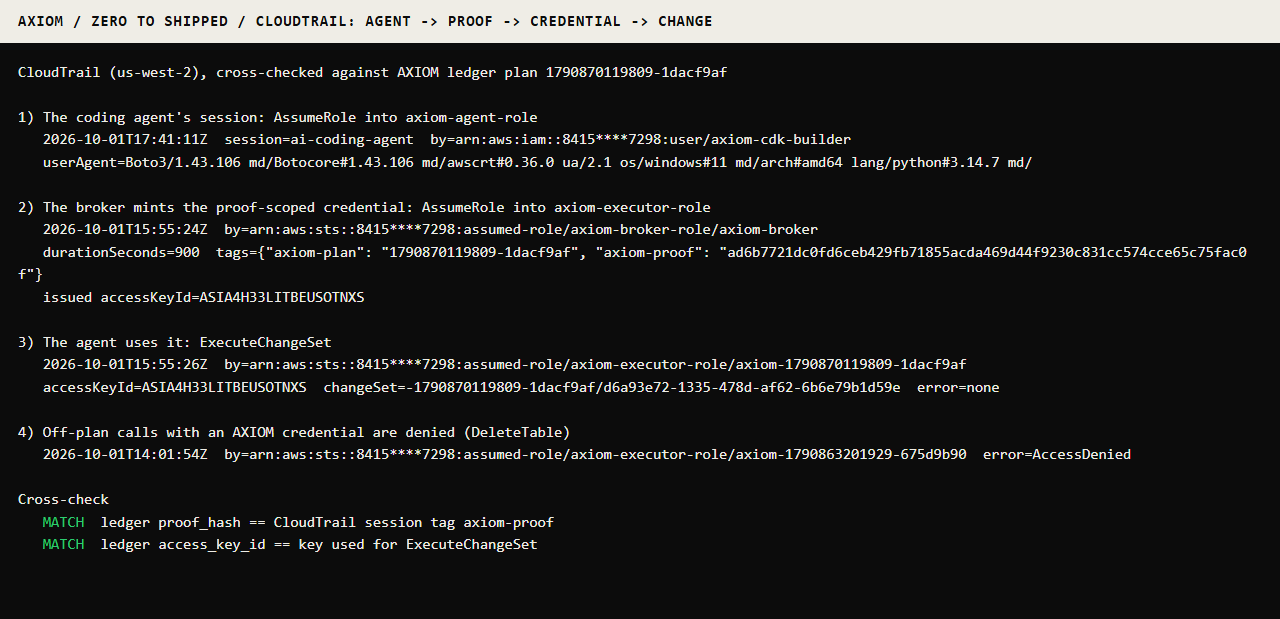
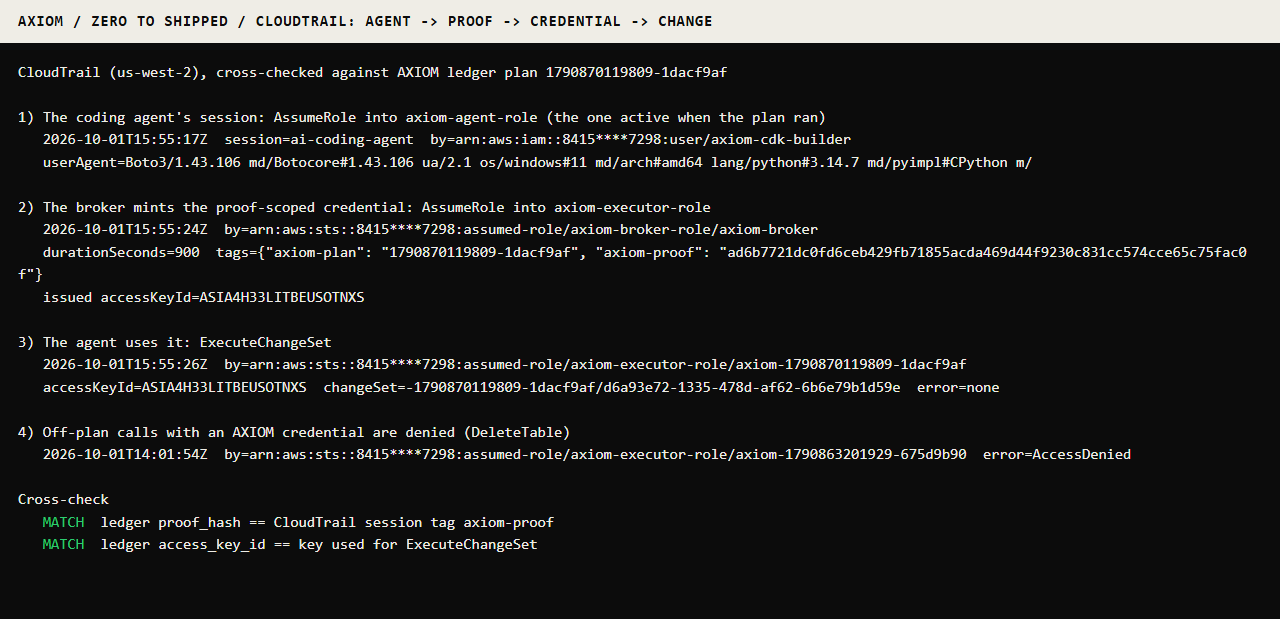
Evidence: show the agent session active when the plan ran
Exhibit 2 picked the agent's most recent AssumeRole, which broke the
chronology once newer sessions existed. It now selects the latest agent
session at or before the plan's creation, so the chain reads in order.

Changed region(s): [[0.3125, 0.2456, 0.8125, 0.2763], [0.4375, 0.1842, 0.6562, 0.2149], [0.125, 0.2149, 0.1562, 0.2456]]

diff --git a/scripts/collect_evidence.py b/scripts/collect_evidence.py
@@ -64,13 +64,16 @@ def exhibit_cloudtrail(record: dict) -> str:
     session_name = f"axiom-{AGENT_PLAN}"
     out = [f"CloudTrail (us-west-2), cross-checked against AXIOM ledger plan {AGENT_PLAN}", ""]
 
-    out.append("1) The coding agent's session: AssumeRole into axiom-agent-role")
-    for e in cloudtrail_events(ct, "AssumeRole", since):
-        rp = e.get("requestParameters") or {}
-        if str(rp.get("roleArn", "")).endswith("role/axiom-agent-role"):
-            out.append(f"   {e['eventTime']}  session={rp.get('roleSessionName')}  by={e['userIdentity'].get('arn')}")
-            out.append(f"   userAgent={e.get('userAgent', '')[:110]}")
-            break
+    out.append("1) The coding agent's session: AssumeRole into axiom-agent-role (the one active when the plan ran)")
+    plan_time = datetime.fromisoformat(record["created_at"])
+    sessions = [e for e in cloudtrail_events(ct, "AssumeRole", since)
+                if str((e.get("requestParameters") or {}).get("roleArn", "")).endswith("role/axiom-agent-role")
+                and datetime.fromisoformat(e["eventTime"].replace("Z", "+00:00")) <= plan_time]
+    if sessions:
+        e = max(sessions, key=lambda ev: ev["eventTime"])
+        out.append(f"   {e['eventTime']}  session={e['requestParameters'].get('roleSessionName')}  "
+                   f"by={e['userIdentity'].get('arn')}")
+        out.append(f"   userAgent={e.get('userAgent', '')[:110]}")
 
     minted = None
     out += ["", "2) The broker mints the proof-scoped credential: AssumeRole into axiom-executor-role"]
